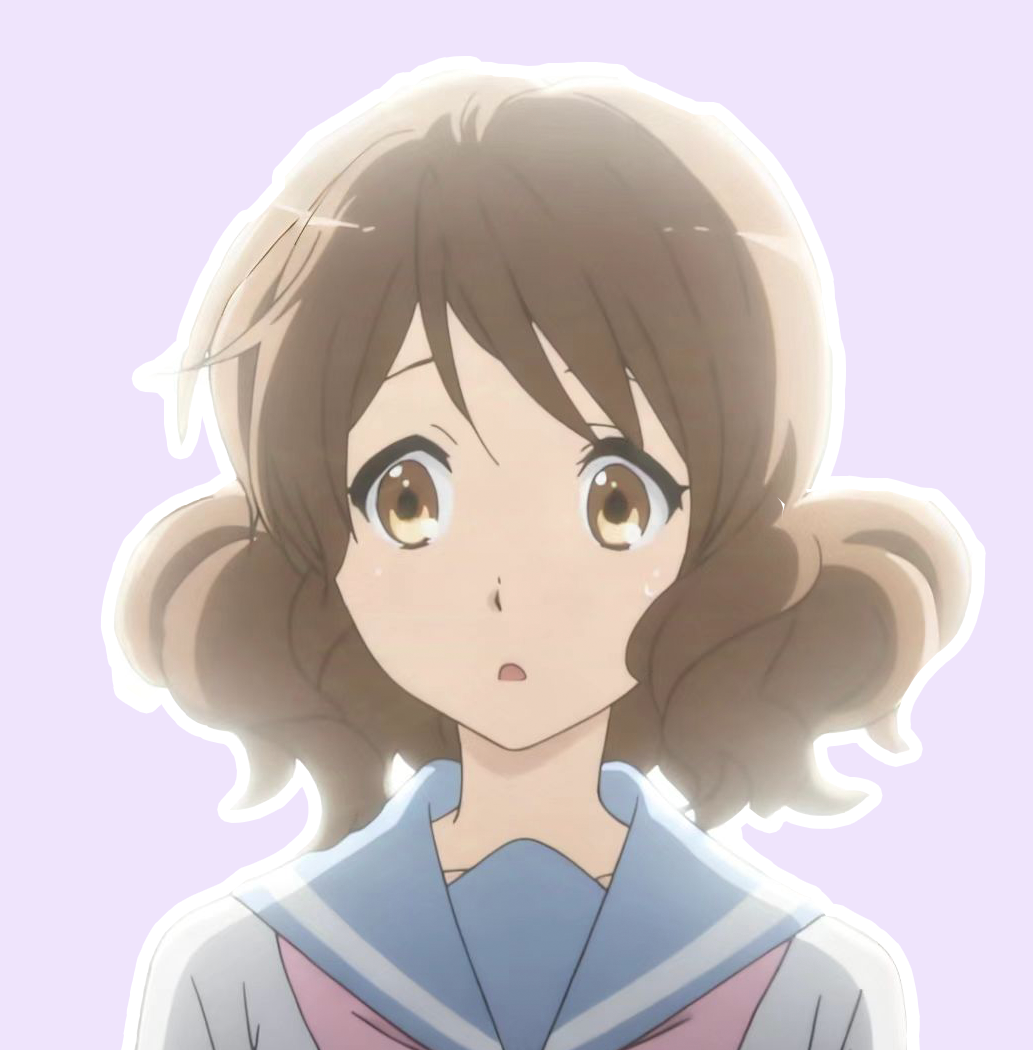
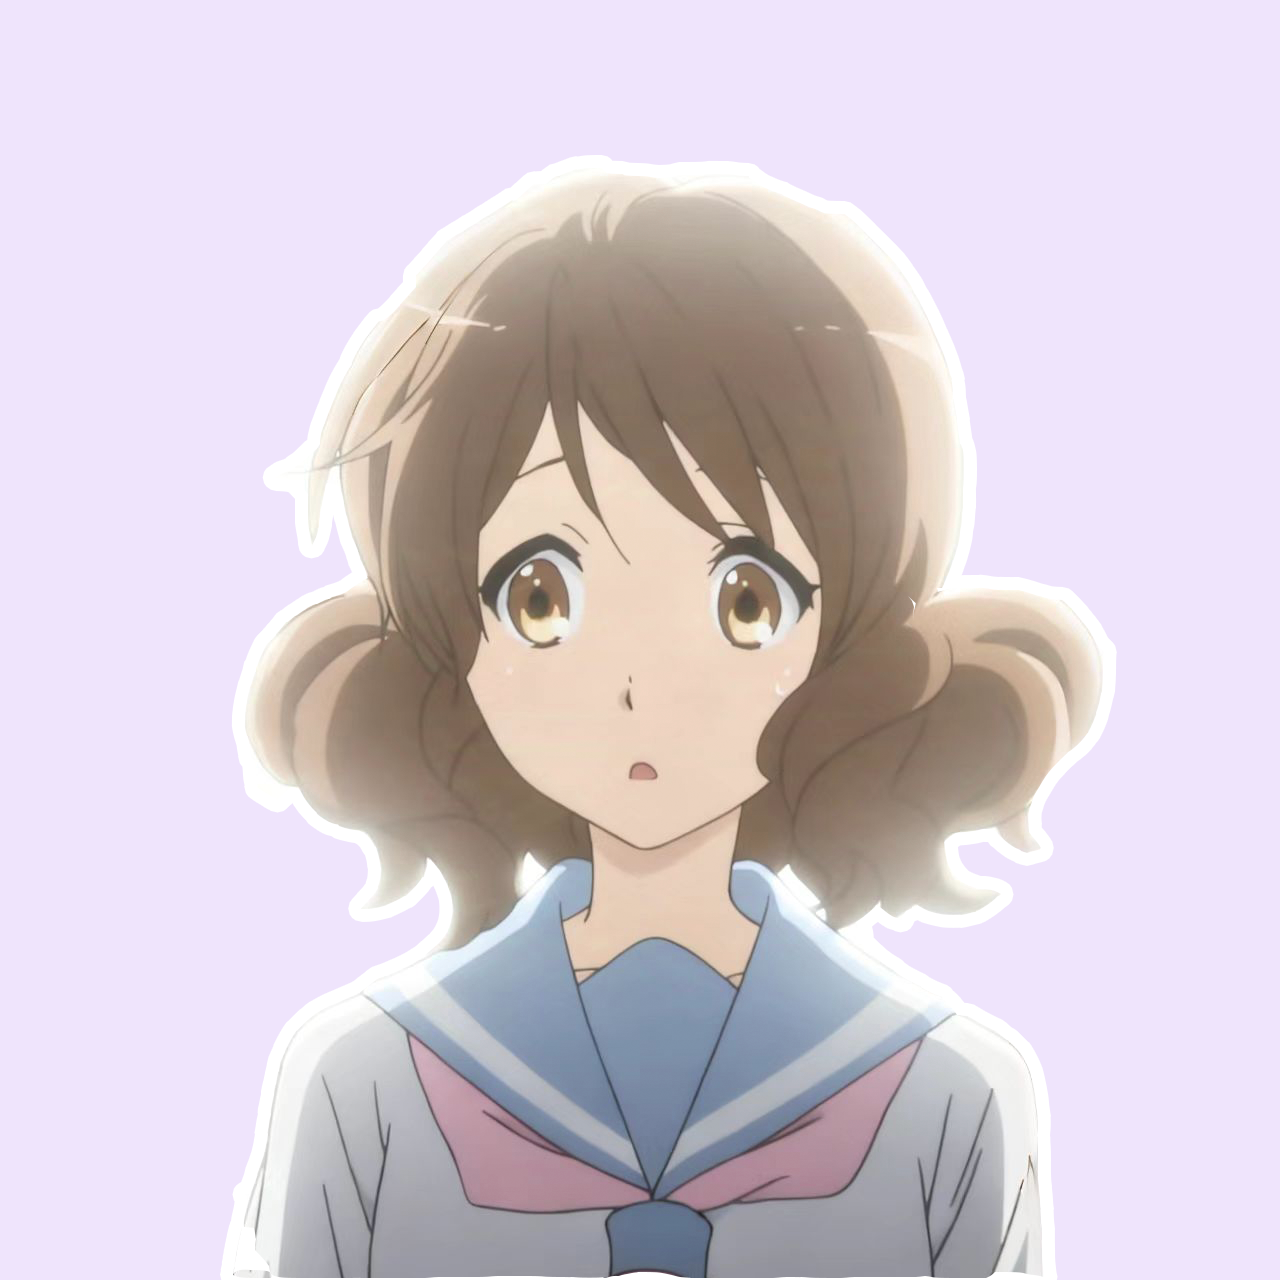
Site updated: 2025-11-07 17:28:12

diff --git a/index.html b/index.html
@@ -51,7 +51,7 @@
   
     
 <div id="banner" class=" is_home ">
-  <img src="/./20230422120959_56da4.png" itemprop="image">
+  <img src="/./tou_tu.png" itemprop="image">
   <div id="banner-dim"></div>
 </div>
  
@@ -127,7 +127,7 @@
   <div class="info-card">
     <div class="avatar">
       
-        <image src=/./head.png></image>
+        <image src=/./tou_xiang.png></image>
       
       <div class="img-dim"></div>
     </div>

diff --git a/2025/11/06/My-New-Post/index.html b/2025/11/06/My-New-Post/index.html
@@ -136,7 +136,7 @@
   <div class="info-card">
     <div class="avatar">
       
-        <image src=/./head.png></image>
+        <image src=/./tou_xiang.png></image>
       
       <div class="img-dim"></div>
     </div>

diff --git a/about/index.html b/about/index.html
@@ -122,7 +122,7 @@
   <div class="info-card">
     <div class="avatar">
       
-        <image src=/./head.png></image>
+        <image src=/./tou_xiang.png></image>
       
       <div class="img-dim"></div>
     </div>

diff --git a/archives/2025/11/index.html b/archives/2025/11/index.html
@@ -120,7 +120,7 @@
   <div class="info-card">
     <div class="avatar">
       
-        <image src=/./head.png></image>
+        <image src=/./tou_xiang.png></image>
       
       <div class="img-dim"></div>
     </div>

diff --git a/archives/2025/index.html b/archives/2025/index.html
@@ -120,7 +120,7 @@
   <div class="info-card">
     <div class="avatar">
       
-        <image src=/./head.png></image>
+        <image src=/./tou_xiang.png></image>
       
       <div class="img-dim"></div>
     </div>

diff --git a/archives/index.html b/archives/index.html
@@ -120,7 +120,7 @@
   <div class="info-card">
     <div class="avatar">
       
-        <image src=/./head.png></image>
+        <image src=/./tou_xiang.png></image>
       
       <div class="img-dim"></div>
     </div>

diff --git a/categories/CTF/index.html b/categories/CTF/index.html
@@ -120,7 +120,7 @@
   <div class="info-card">
     <div class="avatar">
       
-        <image src=/./head.png></image>
+        <image src=/./tou_xiang.png></image>
       
       <div class="img-dim"></div>
     </div>

diff --git a/categories/CTF/moectf2025/index.html b/categories/CTF/moectf2025/index.html
@@ -120,7 +120,7 @@
   <div class="info-card">
     <div class="avatar">
       
-        <image src=/./head.png></image>
+        <image src=/./tou_xiang.png></image>
       
       <div class="img-dim"></div>
     </div>

diff --git a/tags/wp/index.html b/tags/wp/index.html
@@ -120,7 +120,7 @@
   <div class="info-card">
     <div class="avatar">
       
-        <image src=/./head.png></image>
+        <image src=/./tou_xiang.png></image>
       
       <div class="img-dim"></div>
     </div>
